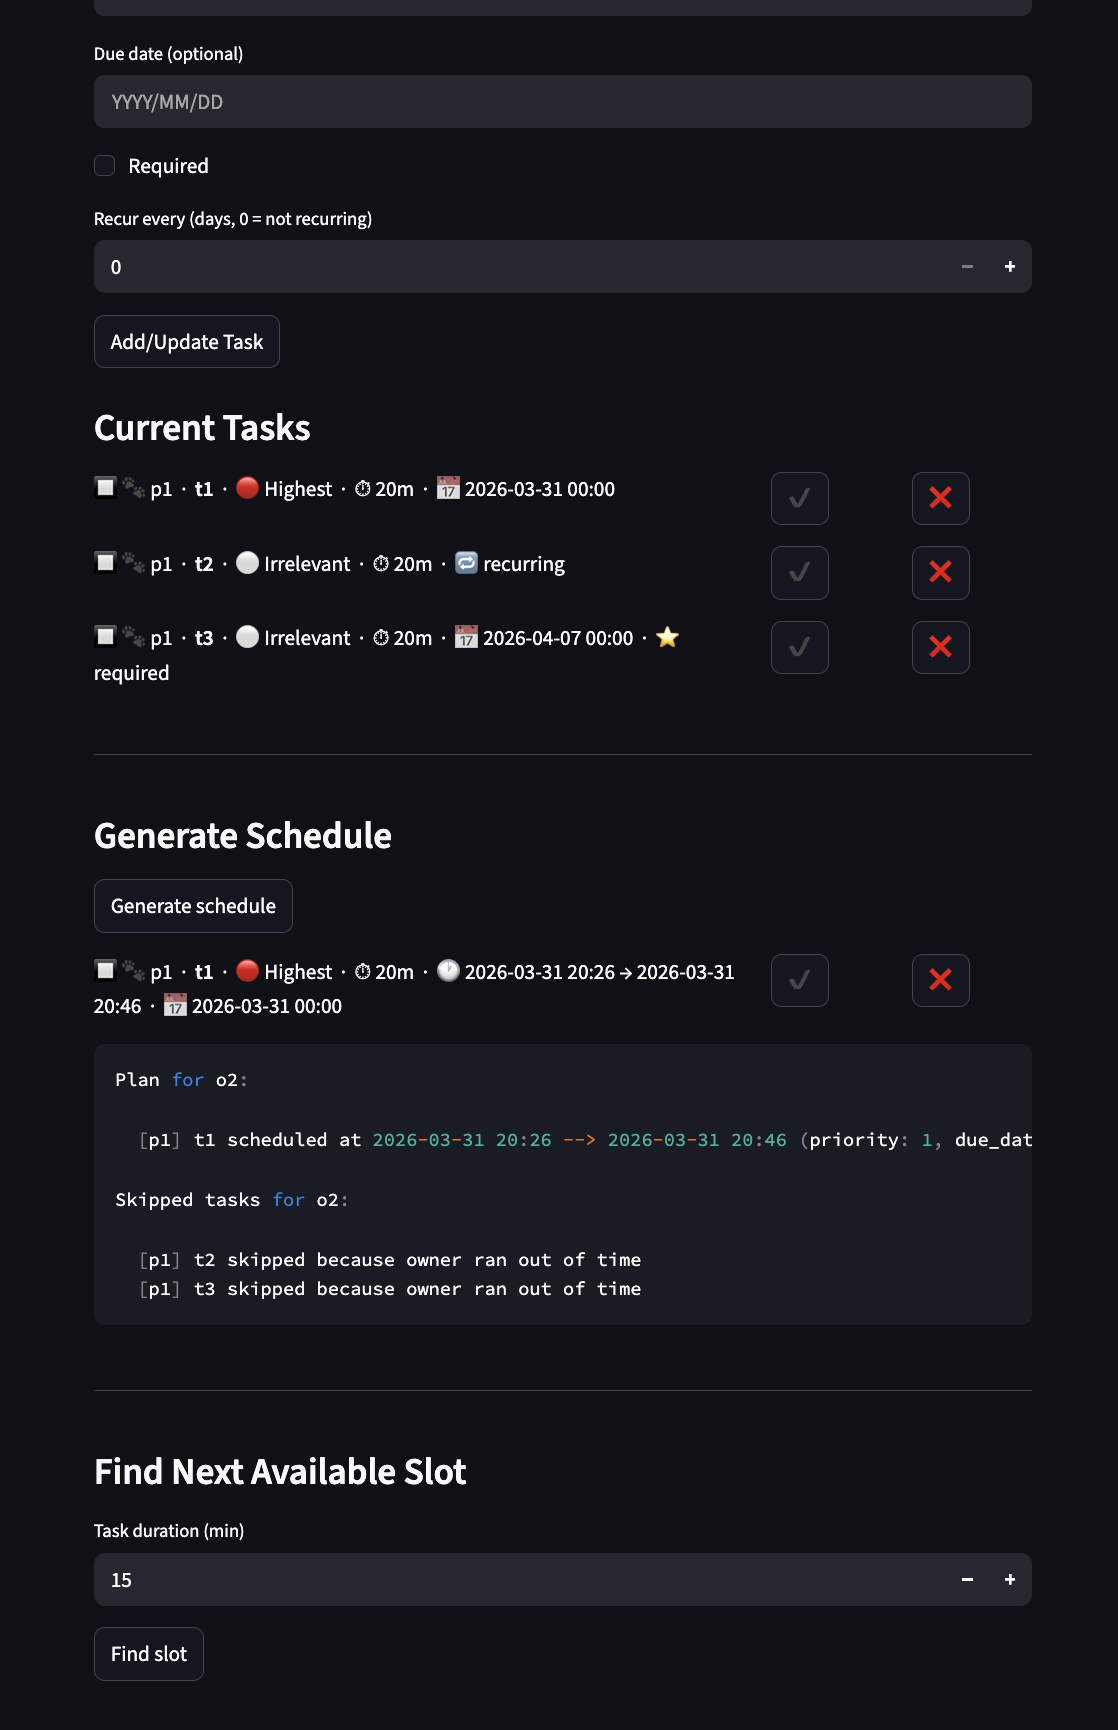
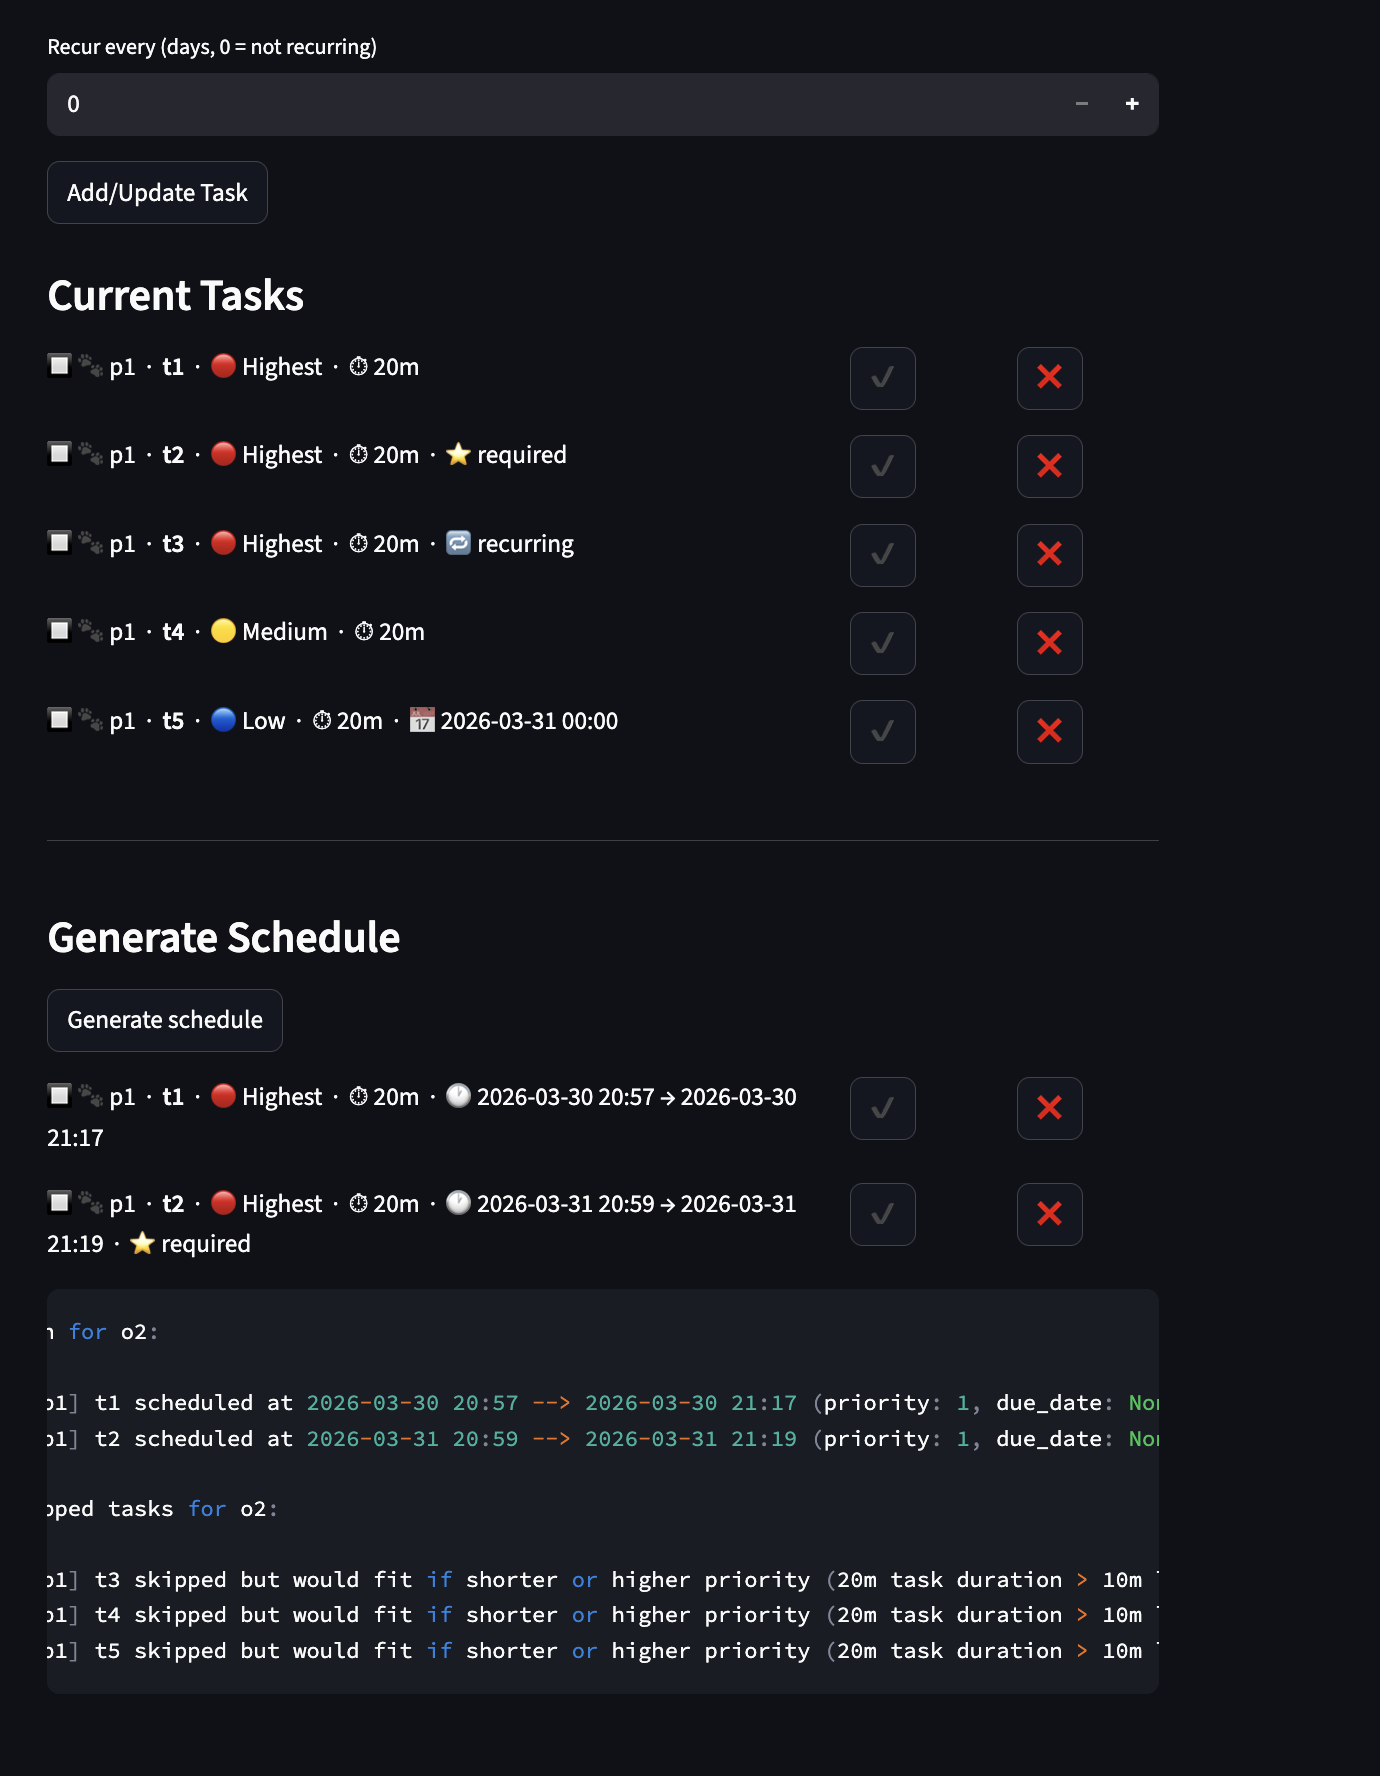
removed unintentional creation of find next availability

diff --git a/app.py b/app.py
@@ -210,19 +210,5 @@ if st.session_state.plan:
     render_tasks(st.session_state.plan.scheduled_tasks, "plan")
     st.code(str(st.session_state.plan))
 
-# --- Find Next Slot ---
-st.divider()
-st.subheader("Find Next Available Slot")
-slot_duration = st.number_input("Task duration (min)", min_value=1, max_value=240, value=15, key="slot_dur")
-if st.button("Find slot"):
-    if not owner.availabilities:
-        st.warning("Add at least one availability block first.")
-    else:
-        slot = scheduler.find_next_slot(owner, timedelta(minutes=slot_duration))
-        if slot:
-            st.success(f"Next available slot: {fmt_dt(slot)} → {fmt_dt(slot + timedelta(minutes=slot_duration))}")
-        else:
-            st.warning(f"No availability block can fit a {slot_duration}-minute task.")
-
 # --- Auto-save state ---
 scheduler.save(SAVE_PATH)

diff --git a/README.md b/README.md
@@ -48,19 +48,20 @@ Beyond the basic requirements, PawPal+ includes several features that make sched
 - **Task validation** — `required` and `reset_every` are enforced as mutually exclusive at creation time. Due dates must be at day granularity.
 - **Availability trimming** — Past availability blocks are automatically removed or shortened before each plan generation, so the schedule always reflects current reality.
 - **Persistence** — Scheduler state (owners, pets, tasks, availabilities) is saved to disk via pickle and restored on app restart.
-- **Next available slot finder** — Given a task duration, `find_next_slot()` scans availability blocks and returns the earliest time that can fit the task, accounting for already-scheduled tasks. Exposed in the UI so owners can quickly answer "when can I next do this?"
 - **48 unit tests** — Full coverage of all classes and methods, including edge cases like overlapping availability merges, completed task filtering, multi-block scheduling, and next-slot lookups.
 
-## Agent Mode Usage
+## Agent Mode Usage for Advanced Scheduling
 
-The "Find Next Available Slot" feature was implemented using Agent Mode (Kiro CLI). The workflow:
+I Implemented the due-date, priority, and multi-availability scheduling using kiro.
 
-1. I described the feature: "Add a third algorithmic capability like next available slot."
-2. The agent added `find_next_slot()` to the `Scheduler` class — it trims past availability, iterates blocks, calculates consumed time from already-scheduled tasks, and returns the earliest start time that fits the requested duration.
-3. The agent wired it into `app.py` with a duration input and "Find slot" button that displays the result.
-4. The agent added 3 tests (slot found, no fit, no availability) and ran the full suite to confirm all 48 tests pass.
+1. I built it in steps. First, I had the singe availability scheduling that only used the priority.
+2. Then I added the logic to prioritize tasks that are due today or tomorrow.
+3. Then I added the multi-availability logic.
+4. Then I added the logic to squash overlapping availabilities.
 
-This was a single-prompt interaction — the agent handled the logic, UI, tests, and README update in one pass.
+Throughout this process, I used kiro-cli to write the boilerplate code. But I had to implement some the algorithms and logic myself because the AI output didn't make sense. Even then, I asked Kiro to review my code and it helped me find some bugs. It also made decent fixes for them.
+
+I then had Kiro write the unit tests and update the streamlit app mostly independently.
 
 ## Testing PawPal+
 
